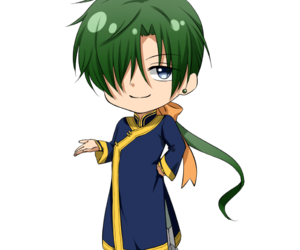
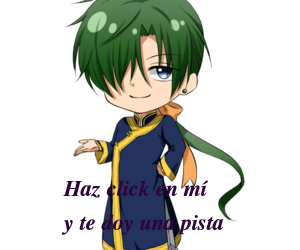
ultimosmomentos

Changed region(s): [[0.21, 0.84, 0.75, 0.952], [0.21, 0.7, 0.69, 0.812]]

diff --git a/estilo.css b/estilo.css
@@ -1,6 +1,7 @@
 body{background-image: url("fondo.gif");}
 #global {margin: 0 auto;height: 100%;}
-#tabla 	{margin: 0 auto;}
+#ayuda{float:left; padding-top:100px;}
+#tabla 	{margin: 0 auto; padding-right:300px;}
 h1 {text-align: center;}
 
 /*.imagen {border: 1px solid green;background-color:green; height: 36%; width: 10%;float: left; margin: 3%;}

diff --git a/joc.php b/joc.php
@@ -8,11 +8,13 @@
 	<body onload="carga()">
 		<div id="global" >
 			<div id="panel"><img id="dontmove" src="panel2.png"/></div>
+			
 			<table id="tabla">
 			 <p>
 				<span id="min">0</span>min  <span id="seg">0</span>seg
 			</p>
 					<?php
+					echo "<input type='image' src='botonsito.png' id='ayuda' onclick='ayuda()' value='3'> </input>";
 					$val = $_POST["valor"];
 					$count = 0;
 					
@@ -134,7 +136,7 @@
 					?>
 			</table>
 			<?php
-				echo "<input type='image' src='botonsito.png' id='ayuda' onclick='ayuda()' value='3'> </input>";
+				
 				echo "<form action='ranking.php' method='POST'>
 						Intentos:
 					    <input type='text' id='intent' name='intentos' value=0 readonly> </input>
